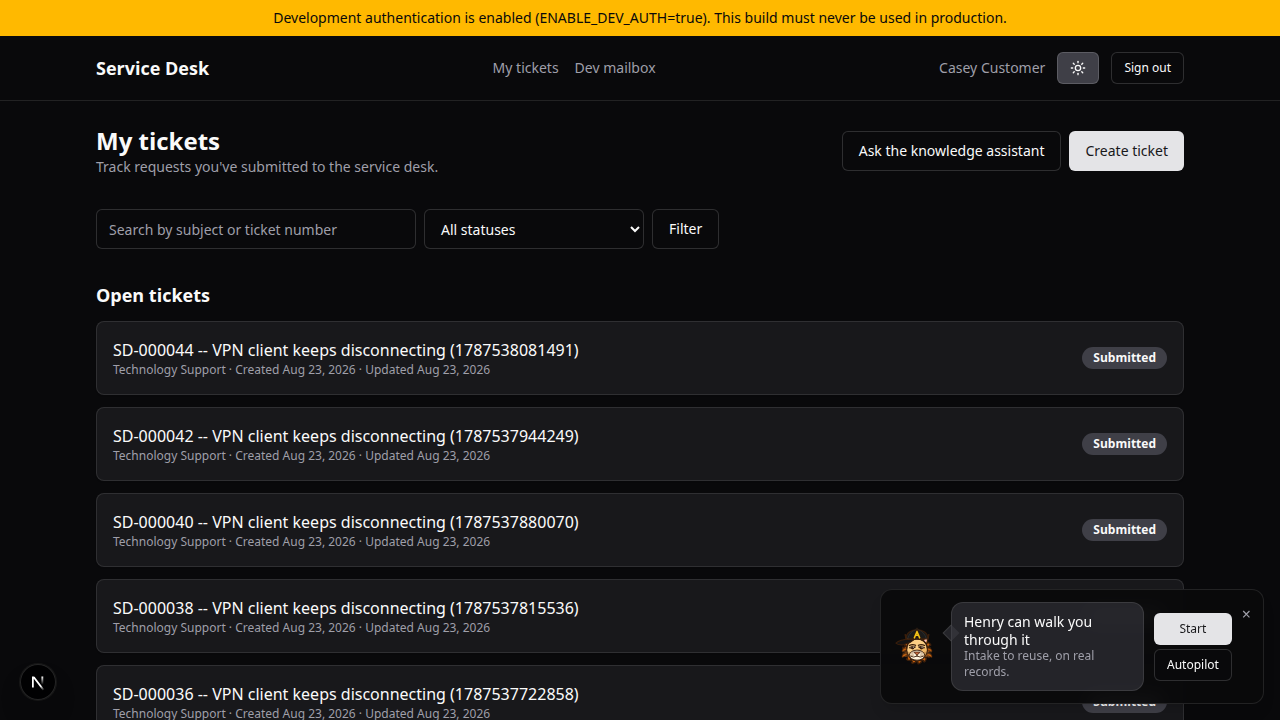
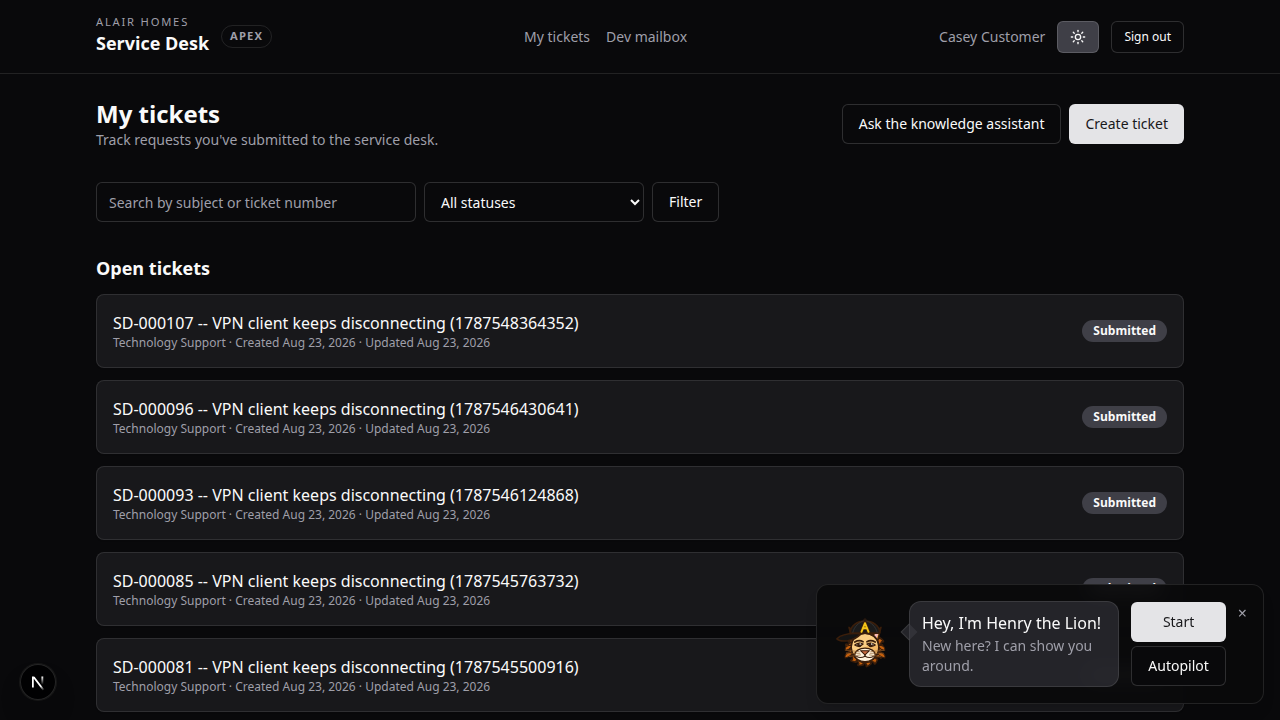
docs(demo): document the teaching rewrite, the pace knobs, and re-shoot
DEMO_TOUR.md led with the audience the tour no longer has. It now states the
teaching brief up front, with the three rules that follow from it, and points
a developer at the lifecycle docs instead. The pace knobs get a table --
three of them, in two files, all deliberately slow -- and a note that
`?tour=fast` exists for rehearsal and the two e2e specs, not for a room.

`IN_REVIEW` moves from something Henry admits out loud to a known limit
recorded here. The gap between two internal article states is not something
this audience can act on. Nothing he says is false as a result -- "Kai reads
it and publishes it" is exactly what happens -- but a developer reading the
narration will not learn about it from there.

Both themes re-shot off the mode-1 walk. The new welcome beat shifts every
step number, so the shots after it are renamed and the stale ones deleted by
hand; the filenames-carry-step-numbers cost is now written down. `shoot()`
waits 400ms first: the shots are taken at the top of a loop iteration, a
moment after the previous step advanced, and without the pause they caught
the panel mid-transition and showed it apparently clipped at the bottom of
the screen -- which looked like a layout bug and was not.

diff --git a/docs/DEMO_TOUR.md b/docs/DEMO_TOUR.md
@@ -1,14 +1,31 @@
 # The guided demo tour (Henry)
 
-An in-app tour that carries a viewer through the golden path -- intake,
-triage, the work, the resolution gate, the article, the review, and the
-deflection -- creating real records as it goes.
+An in-app tour that carries a viewer through the golden path -- a welcome,
+intake, triage, the work, the resolution gate, the article, the review, and
+the deflection -- creating real records as it goes.
 
-Built for an internal-systems demo to a technical audience, which shapes the
-narration: it names the enforcement point rather than the benefit, because
-the room will read each line as a claim and then try to break it. Where the
-app is less capable than the story implies, Henry says so (see
-`publish-article`, which admits the console publishes straight from `DRAFT`).
+Built to **teach the workflow** to the people who will use the desk:
+franchise partners, triage, department agents, whoever ends up looking after
+the knowledge base. That shapes everything about the narration.
+
+- It names the job being done, never the mechanism doing it. No route names,
+  no schema names, no table names. A viewer should leave able to do their part
+  of this, not able to describe how it is built. The technical account of the
+  same path is `docs/TICKET_LIFECYCLE.md` and
+  `docs/KNOWLEDGE_LIFECYCLE.md` -- send a developer there instead.
+- It opens with four narration-only steps (the `welcome` beat) that introduce
+  Henry, say what the Service Desk is for, and state what the viewer should
+  leave knowing. A walkthrough that starts by filling in a form teaches the
+  form, not the desk.
+- It still may not overstate what the app does. Several lines are narrower
+  than they could be for that reason -- `kb-check` says drafts are included in
+  the agent's search because they are, and `deflect-proof` does not claim
+  Jordan's ticket list is empty because it is not.
+
+The pace is set for someone seeing this for the first time: reading dwell,
+per-character typing and the pause before each click are all half again
+slower than a rehearsal pace, and the panel type is sized to be read across
+a room rather than over a shoulder.
 
 ## Running it
 
@@ -133,6 +150,20 @@ button under the scrim, or one that has scrolled out of reach. It asserts the
 list of thirteen real clicks, so a refactor cannot quietly turn the walk back
 into autopilot and keep passing.
 
+### Pace
+
+Three knobs, all deliberately slow:
+
+| What                                   | Where                            |
+| -------------------------------------- | -------------------------------- |
+| Reading dwell on a narration-only step | `dwellMs` in `demo-guide.tsx`    |
+| Per-character typing                   | `typeDelayMs` in `dom-drive.ts`  |
+| Pause before autopilot clicks          | `clickDelayMs` in `dom-drive.ts` |
+
+`?tour=fast` overrides all three (dwell drops to 250ms, the delays to zero).
+That is for rehearsal and for the two e2e specs -- a live audience needs the
+pauses, and a viewer being taught this for the first time needs them most.
+
 ### Screenshots
 
 Captured from the mode-1 walk itself, so they only ever show states the tour
@@ -143,23 +174,34 @@ HENRY_SHOTS=1 pnpm exec playwright test demo-tour-guided                       #
 HENRY_SHOTS=1 HENRY_SHOTS_THEME=dark pnpm exec playwright test demo-tour-guided # dark
 ```
 
-They land in `docs/screenshots/<theme>/`. Worth re-taking after a narration
-edit: the false claim in the closing beat -- Henry insisting Jordan's ticket
-list was empty while five seeded tickets sat behind the panel -- was found by
-looking at one, not by a test.
+They land in `docs/screenshots/<theme>/`, named by step number -- so adding
+or removing a step renames every shot after it, and the stale ones need
+deleting by hand.
+
+Worth re-taking after a narration edit. The false claim in the closing beat
+-- Henry insisting Jordan's ticket list was empty while five seeded tickets
+sat behind the panel -- was found by looking at one, not by a test. So was the
+panel appearing clipped at the bottom of the screen, which turned out to be
+the shot catching it mid-transition rather than a layout bug; `shoot()` now
+waits for it to settle.
 
 ## Known limits
 
 - **The spotlight does not scroll its anchor into view.** Only `perform()`
   does, through `focusInto`. So in mode 1, a step whose control sits below the
   fold points at something the presenter cannot see -- `work-claim` is the one
-  to look at, and `docs/screenshots/light/11-work-claim.png` is it happening.
+  to look at, and `docs/screenshots/light/15-work-claim.png` is it happening.
   Autopilot never shows this because it always goes through `perform()`.
   Pressing "Do it for me" scrolls and recovers it; so does scrolling by hand.
 
 - Dev-auth only, by construction. `src/lib/env.ts` refuses to boot with
   `ENABLE_DEMO_TOUR=true` in production, or without `ENABLE_DEV_AUTH`.
 - `IN_REVIEW` is not on the path. The management console publishes straight
-  from `DRAFT`; Henry says so rather than letting someone find it.
+  from `DRAFT`. Henry used to admit this in the narration; he no longer does,
+  because the gap between two internal article states is not something the
+  tour's audience can act on. It is recorded here and in
+  `docs/KNOWLEDGE_LIFECYCLE.md` instead. Nothing Henry says is false as a
+  result -- "Kai reads it and publishes it" is exactly what happens -- but a
+  developer reading the narration will not learn about it from there.
 - Autopilot cannot recover from an app error mid-step. It surfaces the
   message in the panel and stops; take the wheel and continue by hand.
